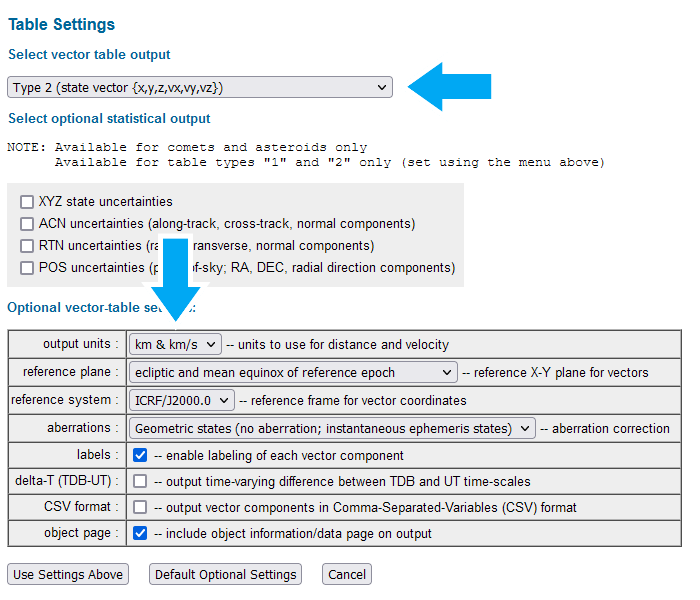
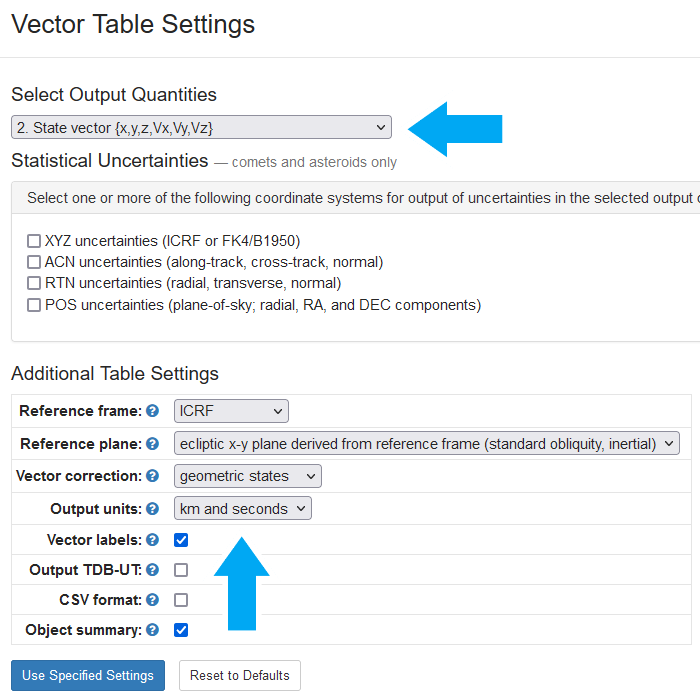
Updated jplhorizons.html

Changed region(s): [[0.0, 0.33, 0.99, 0.99], [0.0, 0.0, 1.0, 0.3]]

diff --git a/misc/jplhorizons.html b/misc/jplhorizons.html
@@ -19,21 +19,20 @@
 
 
     <p>
-      <strong>HORIZONS Web-Interface</strong>を利用して、Orbiterに軌道データをインポートする手順について説明します。
+      <strong>Horizons Web Application</strong>を利用して、Orbiterに軌道データをインポートする手順について説明します。
     </p>
 
     <nav>
       <ul>
         <li><a href="#horizons">JPL Horizons</a></li>
         <li><a href="#settings">設定を変更する</a>
-          <ul>
+          <ol>
             <li><a href="#settings_ephemeris">Ephemeris Type</a></li>
             <li><a href="#settings_target">Target Body</a></li>
-            <li><a href="#settings_origin">Coordinate Origin</a></li>
-            <li><a href="#settings_time">Time Span</a></li>
+            <li><a href="#settings_center">Coordinate Center</a></li>
+            <li><a href="#settings_time">Time Specification</a></li>
             <li><a href="#settings_table">Table Settings</a></li>
-            <li><a href="#settings_display">Display/Output</a></li>
-          </ul>
+          </ol>
         </li>
         <li><a href="#output">データを取得する</a></li>
         <li><a href="#scenario">シナリオファイルの作成</a>
@@ -60,8 +59,8 @@
     </p>
 
     <p>
-      <a href="https://ssd.jpl.nasa.gov/horizons.cgi" target="_blank" rel="noopener noreferrer">HORIZONS
-        Web-Interface</a>
+      <a href="https://ssd.jpl.nasa.gov/horizons/app.html#/" target="_blank" rel="noopener noreferrer">Horizons Web
+        Application</a>
     </p>
 
 
@@ -69,7 +68,7 @@
 
 
     <p>
-      <strong>change</strong>をクリックして、以下の設定を変更する。
+      <kbd>Edit</kbd>をクリックして、以下の設定を変更する。
     </p>
 
     <figure>
@@ -85,10 +84,6 @@
       <strong>Vector Table</strong>にする。
     </p>
 
-    <p>
-      変更したら、<kbd>Use Selection Above</kbd>をクリック。
-    </p>
-
     <figure>
       <img loading="lazy" src="/images/misc/jplhorizons/002.png" width="741" height="240">
     </figure>
@@ -98,12 +93,12 @@
 
 
     <p>
-      目標とする天体・探査機の名前を英語で入力する。
+      目標とする天体・宇宙機の名前を英語で入力する。
     </p>
 
     <p>
-      <strong>Lookup the specified body:</strong>の下に、名前を入力する。<br>
-      入力したら、右端の<kbd>Search</kbd>ボタンをクリック。
+      <strong>Lookup the Specified Body</strong>の下に、名前を入力する。<br>
+      入力したら、<kbd>Search</kbd>ボタンをクリック。
     </p>
 
     <figure>
@@ -111,7 +106,7 @@
     </figure>
 
 
-    <h3 id="settings_origin">Coordinate Origin</h3>
+    <h3 id="settings_center">Coordinate Center</h3>
 
 
     <p>
@@ -190,7 +185,7 @@
     </p>
 
 
-    <h3 id="settings_time">Time Span</h3>
+    <h3 id="settings_time">Time Specification</h3>
 
 
     <p>
@@ -213,7 +208,7 @@
     </p>
 
     <p>
-      入力したら、<kbd>Use Specified Times</kbd>をクリック。
+      入力したら、<kbd>Use Specified Time Span</kbd>をクリック。
     </p>
 
     <figure>
@@ -229,7 +224,7 @@
     </p>
 
     <p>
-      <kbd>Default Optional Settings</kbd>をクリックすると、デフォルトの設定に戻る。
+      <kbd>Reset to Defaults</kbd>をクリックすると、デフォルトの設定に戻る。
     </p>
 
     <figure>
@@ -237,32 +232,23 @@
     </figure>
 
 
-    <h4>Select vector table output</h4>
+    <h4>Select Output Quantities</h4>
 
 
     <p>
-      <strong>Type 2 (state vector {x,y,z,vx,vy,vz})</strong>を選択する。
+      <strong>2. State vector {x,y,z,vx,vy,vz}</strong>を選択する。
     </p>
 
 
-    <h4>Optional vector-table settings:</h4>
+    <h4>Additional Table Settings</h4>
 
 
     <p>
-      <strong>output units</strong>を<strong>km & km/s</strong>に変更する。
+      <strong>Output units</strong>が<strong>km and seconds</strong>になっているか確認する。
     </p>
 
     <p>
-      入力したら、<kbd>Use Settings Above</kbd>をクリック。
-    </p>
-
-
-    <h3 id="settings_display">Display/Output</h3>
-
-
-    <p>
-      変更しなくてよい。<br>
-      <strong>default (formatted HTML)</strong>のままにしておく。
+      設定したら、<kbd>Use Specified Settings</kbd>をクリック。
     </p>
 
 
@@ -270,7 +256,7 @@
 
 
     <p>
-      以上の設定が終わったら、<kbd>Generate Ephemeris</kbd>をクリック。
+      以上の設定が終わったら、緑色の<kbd>Generate Ephemeris</kbd>をクリック。
     </p>
 
 
@@ -279,7 +265,7 @@
 
     <p>
       Horizonsの画面を下にスクロールする。<br>
-      <strong>Results</strong>まで移動する。
+      <strong>Ephemeris Results</strong>に移動する。
     </p>
 
     <p>
@@ -302,7 +288,7 @@
     </p>
 
     <ul class="nostyle">
-      <li><label for="centerbody">中心天体 (Coordinate Origin, body center)</label></li>
+      <li><label for="centerbody">中心天体 (Coordinate Center, body center)</label></li>
       <li><input type="text" name="centerbody" id="centerbody" required></li>
       <li><label for="filename">ファイル名（オプション）</label></li>
       <li><input type="text" name="filename" id="filename"></li>
@@ -316,7 +302,8 @@
     </figure>
 
     <p>
-      <strong>Scenarios</strong>フォルダを開いて、作成した<strong>.scn</strong>ファイルを貼り付ける。
+      <strong>Scenarios</strong>フォルダを開いて、作成した<strong>.scn</strong>ファイルを貼り付ける。<br>
+      <a href="/misc/scenarioedit.html">シナリオファイルの直接編集</a>
     </p>
 
 
@@ -334,11 +321,16 @@
     <table>
       <tr>
         <td><a href="#settings_ephemeris">Ephemeris Type</a></td>
-        <td>VECTORS</td>
+        <td>Vector Table</td>
       </tr>
       <tr>
         <td><a href="#settings_table">Table Settings</a></td>
-        <td>quantities code=2; output units=KM-S</td>
+        <td>
+          <ul>
+            <li>2. State vector {x,y,z,vx,vy,vz}</li>
+            <li>Output units: km and seconds</li>
+          </ul>
+        </td>
       </tr>
     </table>
 
@@ -348,20 +340,20 @@
 
     <p>
       <strong>Target Body</strong>を開く。<br>
-      <strong>Lookup the specified body:</strong>の下に、<strong>ISS</strong>と入力する。<br>
-      入力したら、右端の<kbd>Search</kbd>ボタンをクリック。
+      <strong>Lookup the Specified Body</strong>の下に、<strong>ISS</strong>と入力する。<br>
+      入力したら、右の<kbd>Search</kbd>ボタンをクリック。
     </p>
 
     <p>
-      <strong>Coordinate Origin</strong>を開く。<br>
+      <strong>Coordinate Center</strong>を開く。<br>
       <strong>@399</strong>と入力して、<kbd>Search</kbd>をクリック。
     </p>
 
     <p>
-      <strong>Time Span</strong>を開く。<br>
-      <strong>Start Time</strong>に今日の日付を入力。<br>
-      <strong>Stop Time</strong>に明日の日付を入力。<br>
-      <kbd>Use Specified Times</kbd>をクリック。
+      <strong>Time Specification</strong>を開く。<br>
+      <strong>Start time</strong>に今日の日付を入力。<br>
+      <strong>Stop time</strong>に明日の日付を入力。<br>
+      <kbd>Use Specified Time Span</kbd>をクリック。
     </p>
 
     <p>
@@ -384,20 +376,20 @@
 
     <p>
       <strong>Target Body</strong>を開く。<br>
-      <strong>Lookup the specified body:</strong>の下に、<strong>voyager 2</strong>と入力する。<br>
-      入力したら、右端の<kbd>Search</kbd>ボタンをクリック。
+      <strong>Lookup the Specified Body</strong>の下に、<strong>voyager 2</strong>と入力する。<br>
+      入力したら、右の<kbd>Search</kbd>ボタンをクリック。
     </p>
 
     <p>
-      <strong>Coordinate Origin</strong>を開く。<br>
+      <strong>Coordinate Center</strong>を開く。<br>
       <strong>@599</strong>と入力して、<kbd>Search</kbd>をクリック。
     </p>
 
     <p>
-      <strong>Time Span</strong>を開く。<br>
-      <strong>Start Time</strong>に<strong>1979-07-09</strong>と入力。<br>
-      <strong>Stop Time</strong>に<strong>1979-07-10</strong>と入力。<br>
-      <kbd>Use Specified Times</kbd>をクリック。
+      <strong>Time Specification</strong>を開く。<br>
+      <strong>Start time</strong>に<strong>1979-07-09</strong>と入力。<br>
+      <strong>Stop time</strong>に<strong>1979-07-10</strong>と入力。<br>
+      <kbd>Use Specified Time Span</kbd>をクリック。
     </p>
 
     <p>
@@ -420,20 +412,20 @@
 
     <p>
       <strong>Target Body</strong>を開く。<br>
-      <strong>Lookup the specified body:</strong>の下に、<strong>hayabusa 2</strong>と入力する。<br>
-      入力したら、右端の<kbd>Search</kbd>ボタンをクリック。
+      <strong>Lookup the Specified Body</strong>の下に、<strong>hayabusa 2</strong>と入力する。<br>
+      入力したら、右の<kbd>Search</kbd>ボタンをクリック。
     </p>
 
     <p>
-      <strong>Coordinate Origin</strong>を開く。<br>
+      <strong>Coordinate Center</strong>を開く。<br>
       <strong>@10</strong>と入力して、<kbd>Search</kbd>をクリック。
     </p>
 
     <p>
-      <strong>Time Span</strong>を開く。<br>
-      <strong>Start Time</strong>に今日の日付を入力。<br>
-      <strong>Stop Time</strong>に明日の日付を入力。<br>
-      <kbd>Use Specified Times</kbd>をクリック。
+      <strong>Time Specification</strong>を開く。<br>
+      <strong>Start time</strong>に今日の日付を入力。<br>
+      <strong>Stop time</strong>に明日の日付を入力。<br>
+      <kbd>Use Specified Time Span</kbd>をクリック。
     </p>
 
     <p>
